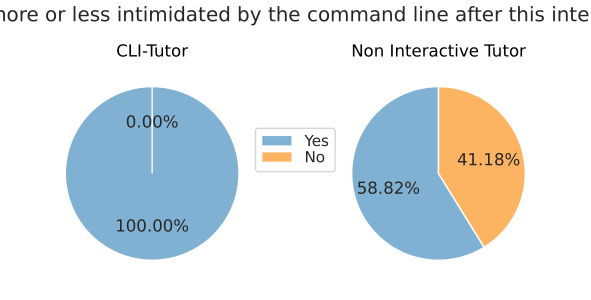
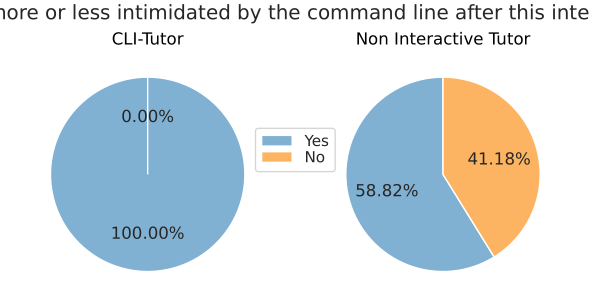
plots: Update

diff --git a/thesis/plots/confidence/plot.py b/thesis/plots/confidence/plot.py
@@ -64,7 +64,7 @@ fig.legend(
     labelspacing=0.1,
 )
 
-# fig.set_constrained_layout(True)
-fig.tight_layout()
+fig.set_constrained_layout(True)
+# fig.tight_layout()
 fig.savefig("plot.png", dpi=100)
 fig.savefig("plot.pgf", format="pgf", bbox_inches="tight", transparent=True)

diff --git a/thesis/chapters/user_study/user_study.tex b/thesis/chapters/user_study/user_study.tex
@@ -59,7 +59,8 @@
 
 \begin{figure}[H]
     \centering
-	\scalebox{0.75}{\input{plots/confidence/plot.pgf}}
+	\scalebox{0.67}{\input{plots/confidence/plot.pgf}}
+    \vspace{-4em}
 	\caption{confidence}
 	\label{fig:question}
 \end{figure}
